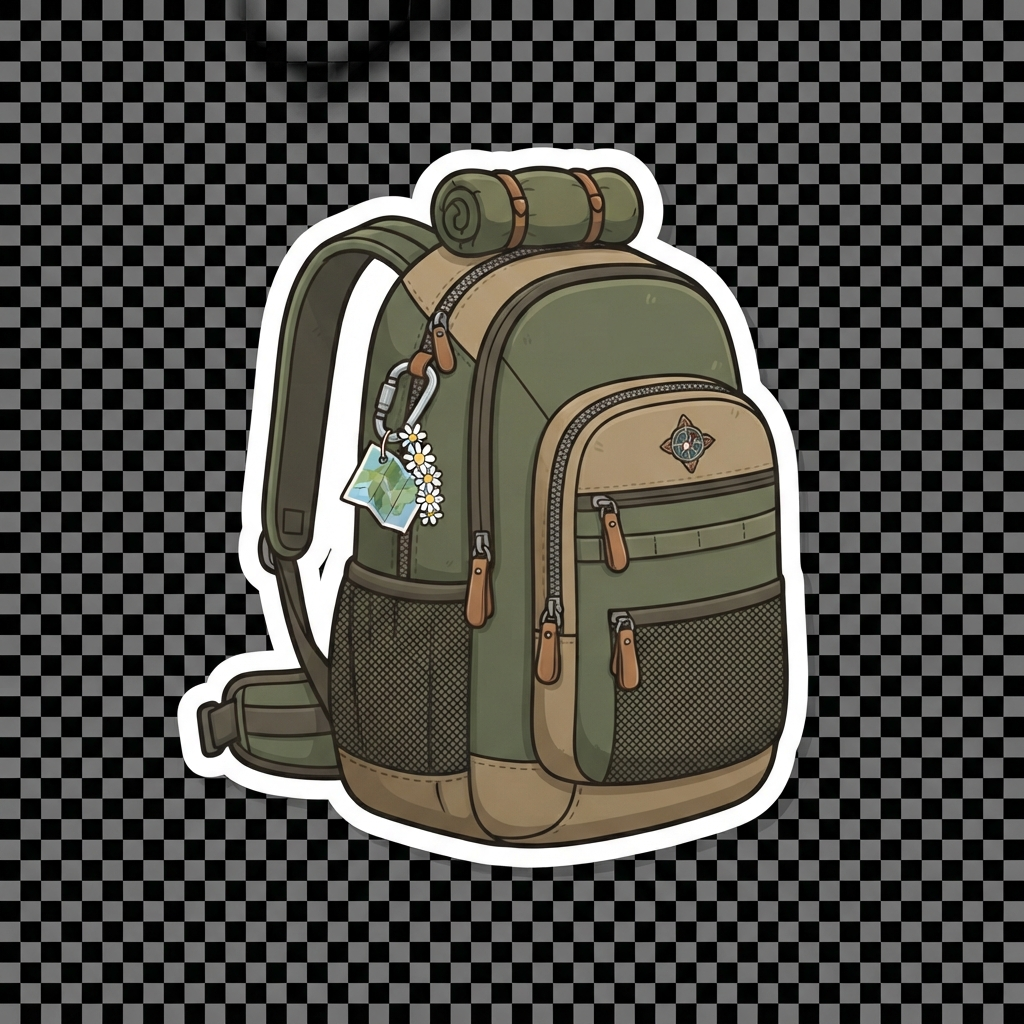
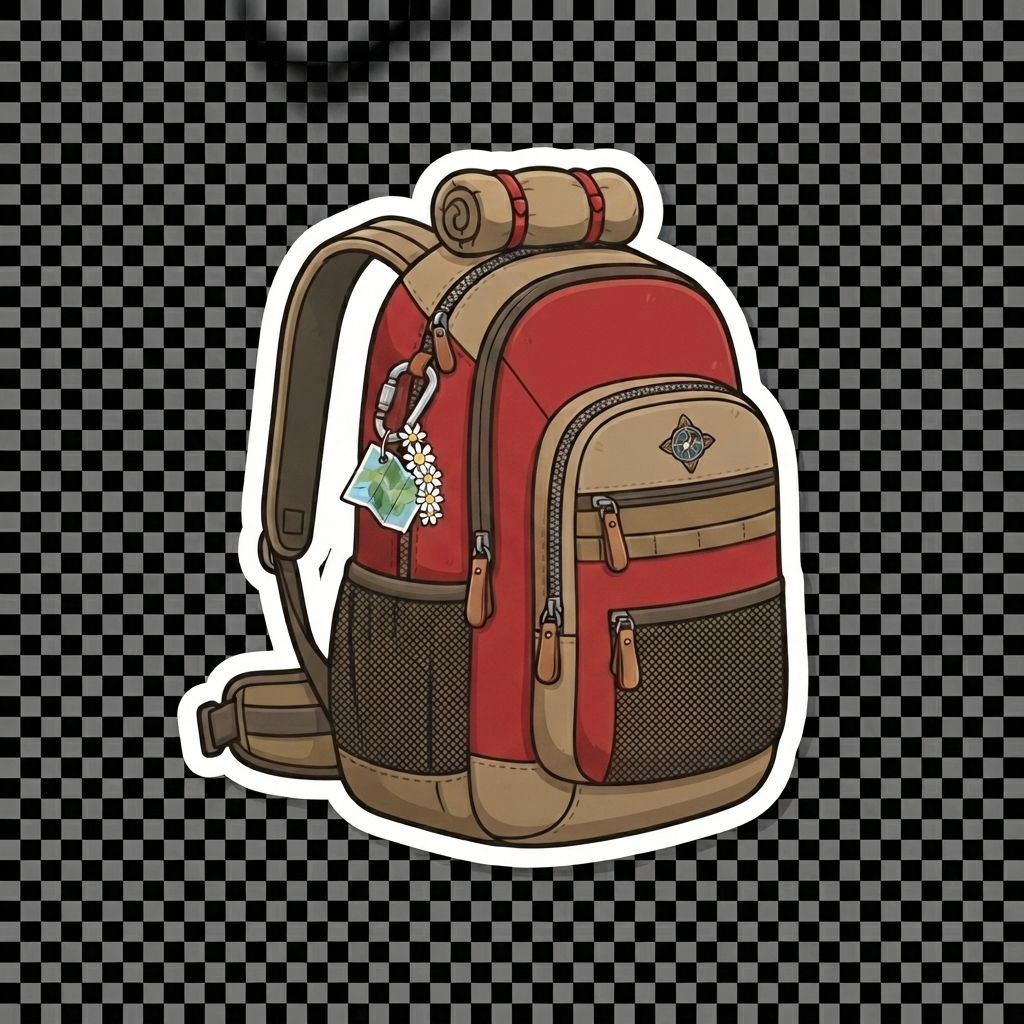
Cambia la mochila verde por una roja, más visible sobre el fondo oscuro
La ilustración verde/caqui se perdía visualmente contra la cabecera y
el modal, ambos en tonos oscuros similares. La nueva, en rojo/burdeos,
contrasta mucho mejor. Mismo archivo (assets/rewards/mochila-icon.png),
sin cambios de código: solo se sube CACHE_VERSION para que el Service
Worker no siga sirviendo la imagen vieja desde caché.

diff --git a/sw.js b/sw.js
@@ -16,7 +16,7 @@
 // Sube este número cuando cambies la lista SHELL_URLS de aquí abajo
 // (los propios archivos versionados con "?v=N" ya se cachean solos con
 // su nueva clave la primera vez que se piden, sin necesidad de tocar esto).
-const CACHE_VERSION = 'v87';
+const CACHE_VERSION = 'v88';
 const SHELL_CACHE = `omot-shell-${CACHE_VERSION}`;
 const IMAGE_CACHE = `omot-images-${CACHE_VERSION}`;
 

diff --git a/index.html b/index.html
@@ -106,7 +106,7 @@
       </div>
     </div>
 
-    <span class="onboarding-version" id="appVersion">Beta V20.2</span>
+    <span class="onboarding-version" id="appVersion">Beta V20.3</span>
     <button type="button" class="onboarding-reset" id="obResetBtn">Reiniciar app</button>
   </div>
 
